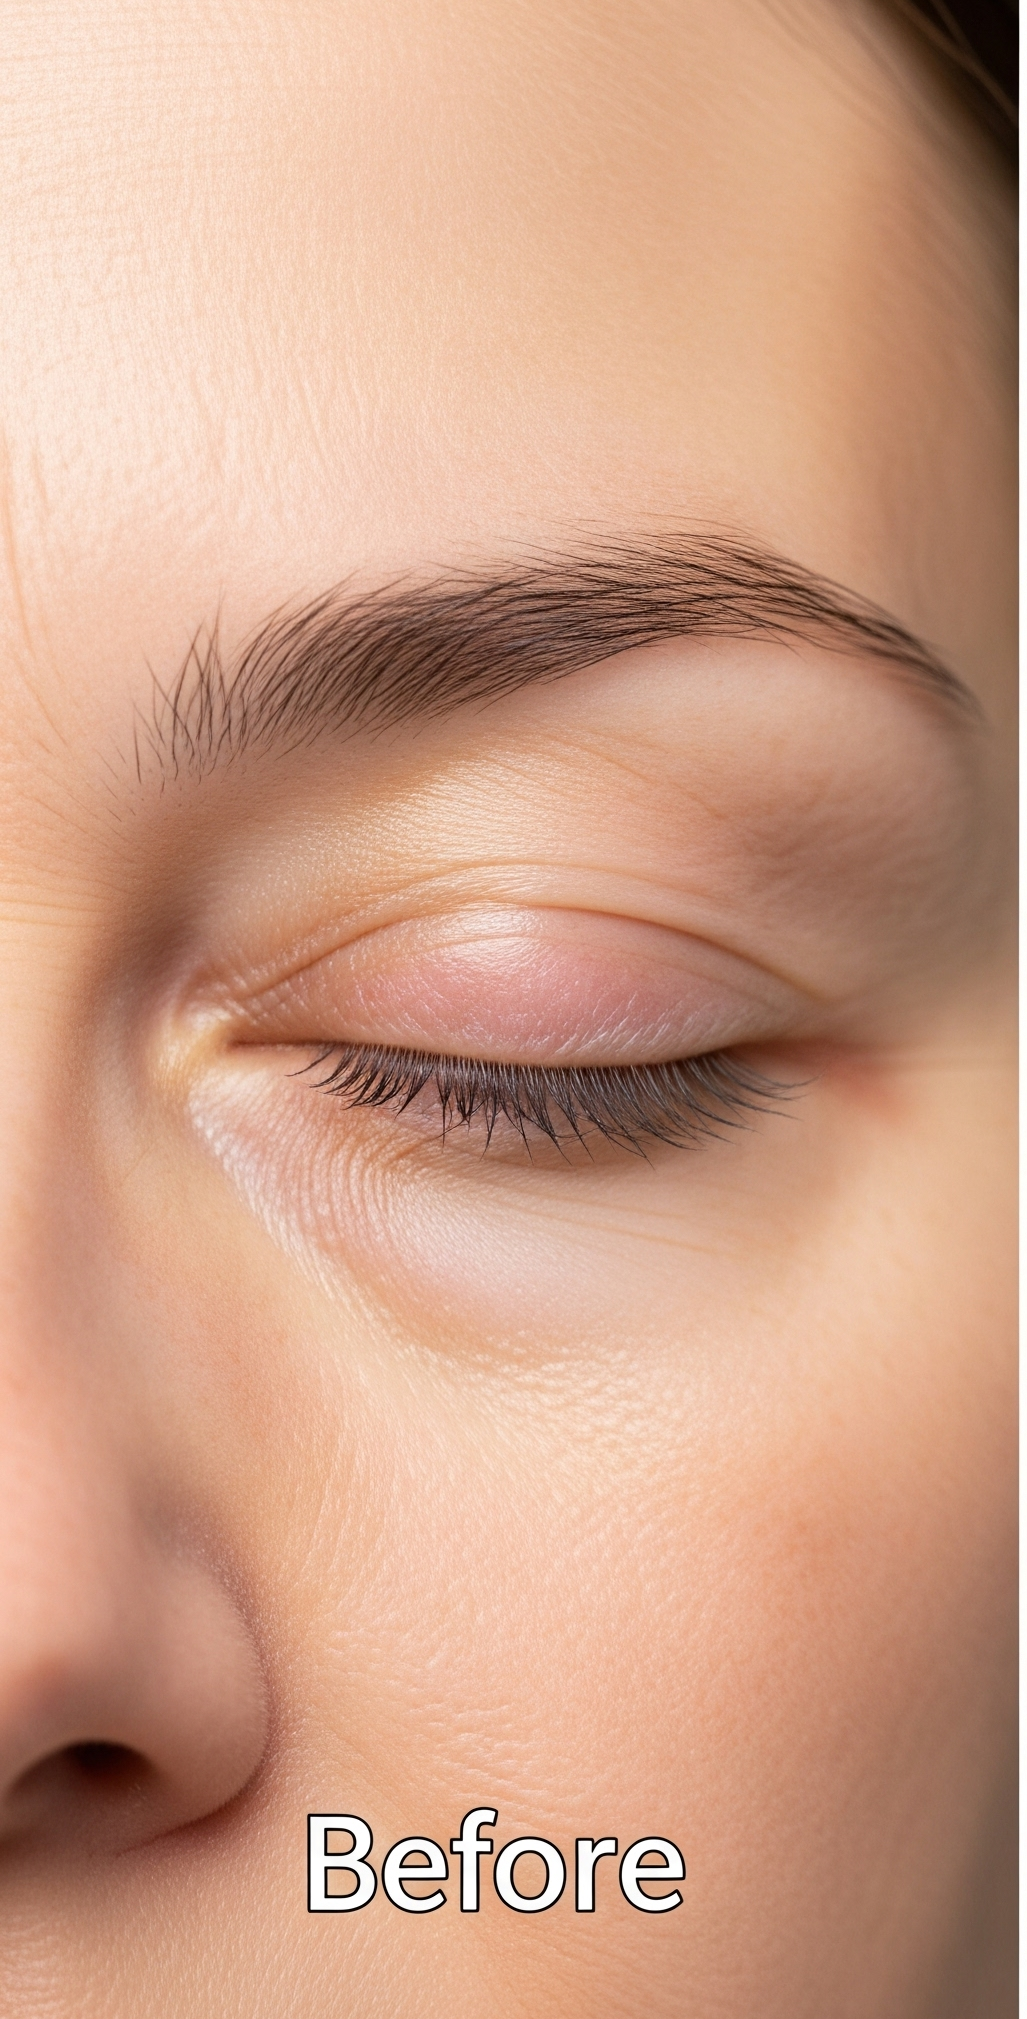
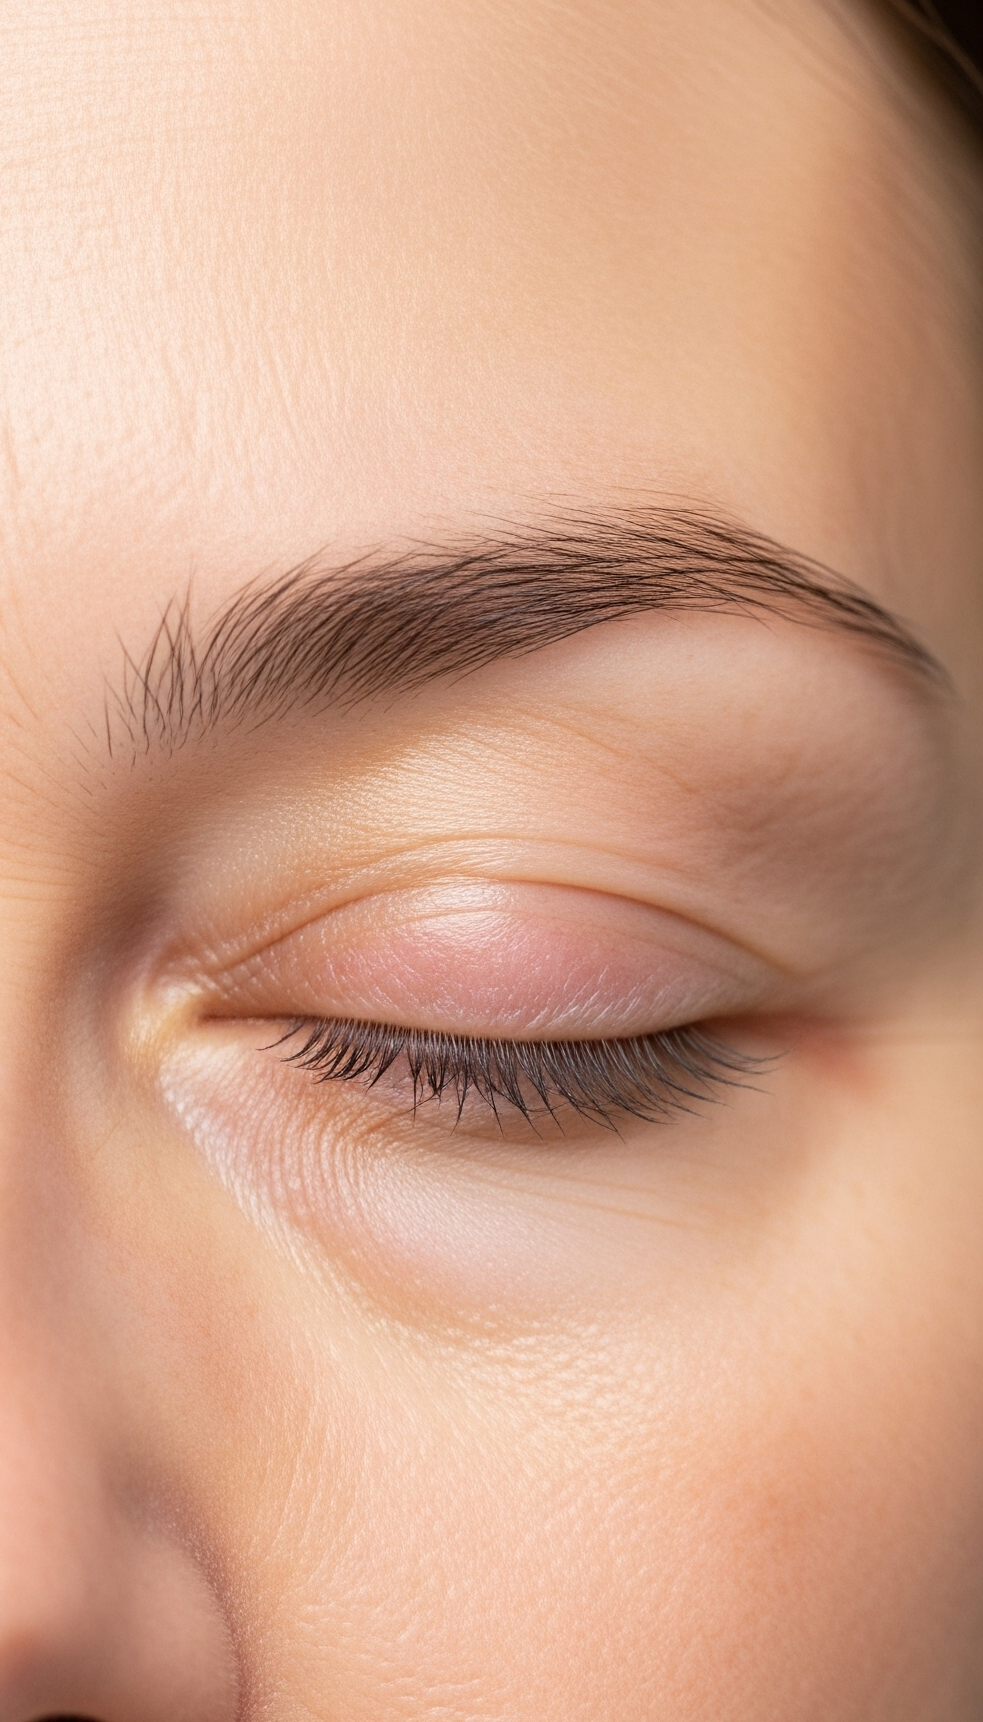
can u make the e photos at specific service pages a bit smaller?

diff --git a/src/lib/services.ts b/src/lib/services.ts
@@ -25,27 +25,27 @@ export const serviceData: ServiceCategory[] = [
       { id: 'rhinoplasty', imageBefore: '/images/rhinoplasty.png', imageAfter: '/images/rhinoplasty2.png', dataAiHint: 'woman nose', serviceType: 'operation' },
       { id: 'otoplasty', imageBefore: '/images/otoplasty.png', imageAfter: '/images/otoplasty2.png', dataAiHint: 'woman ear', serviceType: 'operation' },
       { id: 'blepharoplasty', imageBefore: '/images/blepharoplasty.png', imageAfter: '/images/blepharoplasty2.png', dataAiHint: 'woman eyes', serviceType: 'operation' },
-      { id: 'facelift', imageBefore: '/images/facelift.png', imageAfter: '/images/facelift2.png', dataAiHint: 'woman profile', serviceType: 'operation' },
+      { id: 'facelift', imageBefore: '/images/face-lift.png', imageAfter: '/images/face-lift2.png', dataAiHint: 'woman profile', serviceType: 'operation' },
       { id: 'chin-reshaping', imageBefore: '/images/chin-reshaping.png', imageAfter: '/images/chin-reshaping2.png', dataAiHint: 'woman chin', serviceType: 'operation' },
       { id: 'brow-lift', imageBefore: '/images/brow-lift.png', imageAfter: '/images/brow-lift2.png', dataAiHint: 'woman forehead', serviceType: 'operation' },
       { id: 'hair-transplant', imageBefore: '/images/hair-transplant.png', imageAfter: '/images/hair-transplant2.png', dataAiHint: 'man hair', serviceType: 'operation' },
       { id: 'beard-transplant', imageBefore: '/images/beard-transplant.png', imageAfter: '/images/beard-transplant2.png', dataAiHint: 'man beard', serviceType: 'operation' },
       { id: 'eyebrow-transplant', imageBefore: '/images/eyebrow-transplant.png', imageAfter: '/images/eyebrow-transplant2.png', dataAiHint: 'woman eyebrow', serviceType: 'operation' },
-      { id: 'non-surgical-rhinoplasty', imageBefore: '/images/non-surgical-rhinoplasty.png', imageAfter: '/images/non-surgical-rhinoplasty2.png', dataAiHint: 'woman nose', serviceType: 'treatment' },
-      { id: 'dark-circles-treatment', imageBefore: '/images/dark-circles-treatment.png', imageAfter: '/images/dark-circles-treatment2.png', dataAiHint: 'woman eyes', serviceType: 'treatment' },
+      { id: 'non-surgical-rhinoplasty', imageBefore: '/images/nose-reshaping.png', imageAfter: '/images/nose-reshaping2.png', dataAiHint: 'woman nose', serviceType: 'treatment' },
+      { id: 'dark-circles-treatment', imageBefore: '/images/dark-circles-eyes.png', imageAfter: '/images/dark-circles-eyes2.png', dataAiHint: 'woman eyes', serviceType: 'treatment' },
       { id: 'eyelids-plasma-arc', imageBefore: '/images/eyelids-plasma-arc.png', imageAfter: '/images/eyelids-plasma-arc2.png', dataAiHint: 'eyelid treatment', serviceType: 'treatment' },
       { id: 'jawline-contouring', imageBefore: '/images/jawline-contouring.png', imageAfter: '/images/jawline-contouring2.png', dataAiHint: 'woman jawline', serviceType: 'treatment' },
       { id: 'lip-reshaping', imageBefore: '/images/lip-reshaping.png', imageAfter: '/images/lip-reshaping2.png', dataAiHint: 'woman lips', serviceType: 'treatment' },
       { id: 'microdermabrasion', imageBefore: '/images/microdermabrasion.png', imageAfter: '/images/microdermabrasion2.png', dataAiHint: 'facial treatment', serviceType: 'treatment' },
-      { id: 'microneedling', imageBefore: '/images/microneedling.png', imageAfter: '/images/microneedling2.png', dataAiHint: 'skin texture', serviceType: 'treatment' },
+      { id: 'microneedling', imageBefore: '/images/microneedling1.png', imageAfter: '/images/microneedling2.png', dataAiHint: 'skin texture', serviceType: 'treatment' },
       { id: 'multivitamin-treatment', imageBefore: '/images/multivitamin-treatment.png', imageAfter: '/images/multivitamin-treatment2.png', dataAiHint: 'glowing skin', serviceType: 'treatment' },
-      { id: 'prp-for-hair', imageBefore: '/images/prp-for-hair.png', imageAfter: '/images/prp-for-hair2.png', dataAiHint: 'hair treatment', serviceType: 'treatment' },
-      { id: 'prp-for-face', imageBefore: '/images/prp-for-face.png', imageAfter: '/images/prp-for-face2.png', dataAiHint: 'facial plasma', serviceType: 'treatment' },
-      { id: 'radiofrequency-treatment', imageBefore: '/images/radiofrequency-treatment.png', imageAfter: '/images/radiofrequency-treatment2.png', dataAiHint: 'skin tightening', serviceType: 'treatment' },
+      { id: 'prp-for-hair', imageBefore: '/images/prp-hair.png', imageAfter: '/images/prp-hair2.png', dataAiHint: 'hair treatment', serviceType: 'treatment' },
+      { id: 'prp-for-face', imageBefore: '/images/prp-face.png', imageAfter: '/images/prp-face2.png', dataAiHint: 'facial plasma', serviceType: 'treatment' },
+      { id: 'radiofrequency-treatment', imageBefore: '/images/radiofrequency1.png', imageAfter: '/images/radiofrequency2.png', dataAiHint: 'skin tightening', serviceType: 'treatment' },
       { id: 'sulcus-filling', imageBefore: '/images/sulcus-filling.png', imageAfter: '/images/sulcus-filling2.png', dataAiHint: 'wrinkle treatment', serviceType: 'treatment' },
       { id: 'white-peeling', imageBefore: '/images/white-peeling.png', imageAfter: '/images/white-peeling2.png', dataAiHint: 'skin peel', serviceType: 'treatment' },
-      { id: 'wrinkle-fillers', imageBefore: '/images/wrinkle-fillers.png', imageAfter: '/images/wrinkle-fillers2.png', dataAiHint: 'woman face', serviceType: 'treatment' },
-      { id: 'xanthelasma-treatment', imageBefore: '/images/xanthelasma-treatment.png', imageAfter: '/images/xanthelasma-treatment2.png', dataAiHint: 'eyelid spots', serviceType: 'treatment' },
+      { id: 'wrinkle-fillers', imageBefore: '/images/wrinkle-fillers1.png', imageAfter: '/images/wrinkle-fillers2.png', dataAiHint: 'woman face', serviceType: 'treatment' },
+      { id: 'xanthelasma-treatment', imageBefore: '/images/xanthelasma-plasma-arc.png', imageAfter: '/images/xanthelasma-plasma-arc2.png', dataAiHint: 'eyelid spots', serviceType: 'treatment' },
     ],
   },
   {
@@ -59,7 +59,7 @@ export const serviceData: ServiceCategory[] = [
       { id: 'arm-lift', imageBefore: '/images/arm-lift.png', imageAfter: '/images/arm-lift2.png', dataAiHint: 'woman arm', serviceType: 'operation' },
       { id: 'tummy-tuck', imageBefore: '/images/tummy-tuck.png', imageAfter: '/images/tummy-tuck2.png', dataAiHint: 'woman abdomen', serviceType: 'operation' },
       { id: 'liposculpture', imageBefore: '/images/liposculpture.png', imageAfter: '/images/liposculpture2.png', dataAiHint: 'woman body', serviceType: 'operation' },
-      { id: 'brazilian-butt-lift', imageBefore: '/images/brazilian-butt-lift.png', imageAfter: '/images/brazilian-butt-lift2.png', dataAiHint: 'woman buttocks', serviceType: 'operation' },
+      { id: 'brazilian-butt-lift', imageBefore: '/images/bbl.png', imageAfter: '/images/bbl2.png', dataAiHint: 'woman buttocks', serviceType: 'operation' },
       { id: 'labiaplasty', imageBefore: '/images/labiaplasty.png', imageAfter: '/images/labiaplasty2.png', dataAiHint: 'intimate surgery', serviceType: 'operation' },
       { id: 'thigh-lift', imageBefore: '/images/thigh-lift.png', imageAfter: '/images/thigh-lift2.png', dataAiHint: 'woman legs', serviceType: 'operation' },
       { id: 'gynecomastia', imageBefore: '/images/gynecomastia.png', imageAfter: '/images/gynecomastia2.png', dataAiHint: 'man chest', serviceType: 'operation' },
@@ -67,7 +67,7 @@ export const serviceData: ServiceCategory[] = [
       { id: 'cellulite-treatment', imageBefore: '/images/cellulite-treatment.png', imageAfter: '/images/cellulite-treatment2.png', dataAiHint: 'woman thigh', serviceType: 'treatment' },
       { id: 'laser-hair-removal', imageBefore: '/images/laser-hair-removal.png', imageAfter: '/images/laser-hair-removal2.png', dataAiHint: 'smooth skin', serviceType: 'treatment' },
       { id: 'lipolysis', imageBefore: '/images/lipolysis.png', imageAfter: '/images/lipolysis2.png', dataAiHint: 'body contouring', serviceType: 'treatment' },
-      { id: 'plasma-arc-skin', imageBefore: '/images/plasma-arc-skin.png', imageAfter: '/images/plasma-arc-skin2.png', dataAiHint: 'skin rejuvenation', serviceType: 'treatment' },
+      { id: 'plasma-arc-skin', imageBefore: '/images/plasma-arc-body.png', imageAfter: '/images/plasma-arc-body2.png', dataAiHint: 'skin rejuvenation', serviceType: 'treatment' },
       { id: 'sclerotherapy', imageBefore: '/images/sclerotherapy.png', imageAfter: '/images/sclerotherapy2.png', dataAiHint: 'leg veins', serviceType: 'treatment' },
     ],
   },

diff --git a/src/app/services/[serviceId]/page.tsx b/src/app/services/[serviceId]/page.tsx
@@ -1,3 +1,4 @@
+
 "use client";
 
 import { allServices, ServiceItem } from '@/lib/services';
@@ -67,31 +68,35 @@ export default function ServiceDetailPage({ params }: ServiceDetailPageProps) {
                 </Button>
             </div>
           </div>
-          <div className="grid grid-cols-1 gap-4 p-4 md:p-6 bg-secondary/30">
+          <div className="flex flex-col items-center justify-center p-6 bg-secondary/30">
+            <div className="w-full max-w-sm space-y-6">
               <div>
                 <h3 className="text-lg font-semibold text-muted-foreground mb-2 text-center">{t('before')}</h3>
-                <div className="relative w-full aspect-square rounded-lg overflow-hidden border-2 border-card">
+                <div className="relative w-full aspect-square rounded-lg overflow-hidden border-2 border-card shadow-lg">
                    <Image
                       src={service.imageBefore}
                       alt={t('beforeImageAlt', { serviceName })}
                       fill
                       className="object-cover"
+                      sizes="(max-width: 640px) 90vw, 384px"
                       data-ai-hint={`${service.dataAiHint} before`}
                     />
                 </div>
               </div>
               <div>
                 <h3 className="text-lg font-semibold text-muted-foreground mb-2 text-center">{t('after')}</h3>
-                <div className="relative w-full aspect-square rounded-lg overflow-hidden border-2 border-card">
+                <div className="relative w-full aspect-square rounded-lg overflow-hidden border-2 border-card shadow-lg">
                     <Image
                       src={service.imageAfter}
                       alt={t('afterImageAlt', { serviceName })}
                       fill
                       className="object-cover"
+                      sizes="(max-width: 640px) 90vw, 384px"
                       data-ai-hint={`${service.dataAiHint} after`}
                     />
                 </div>
               </div>
+            </div>
           </div>
         </div>
       </Card>
